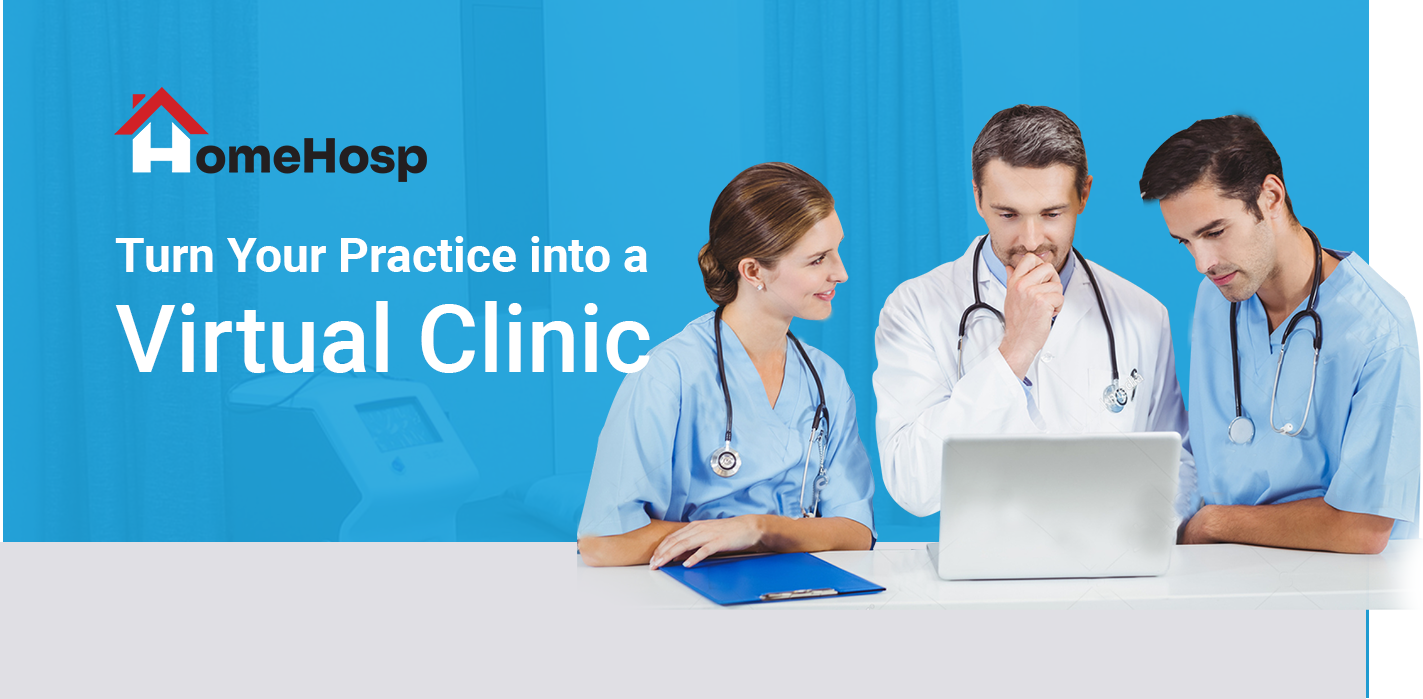
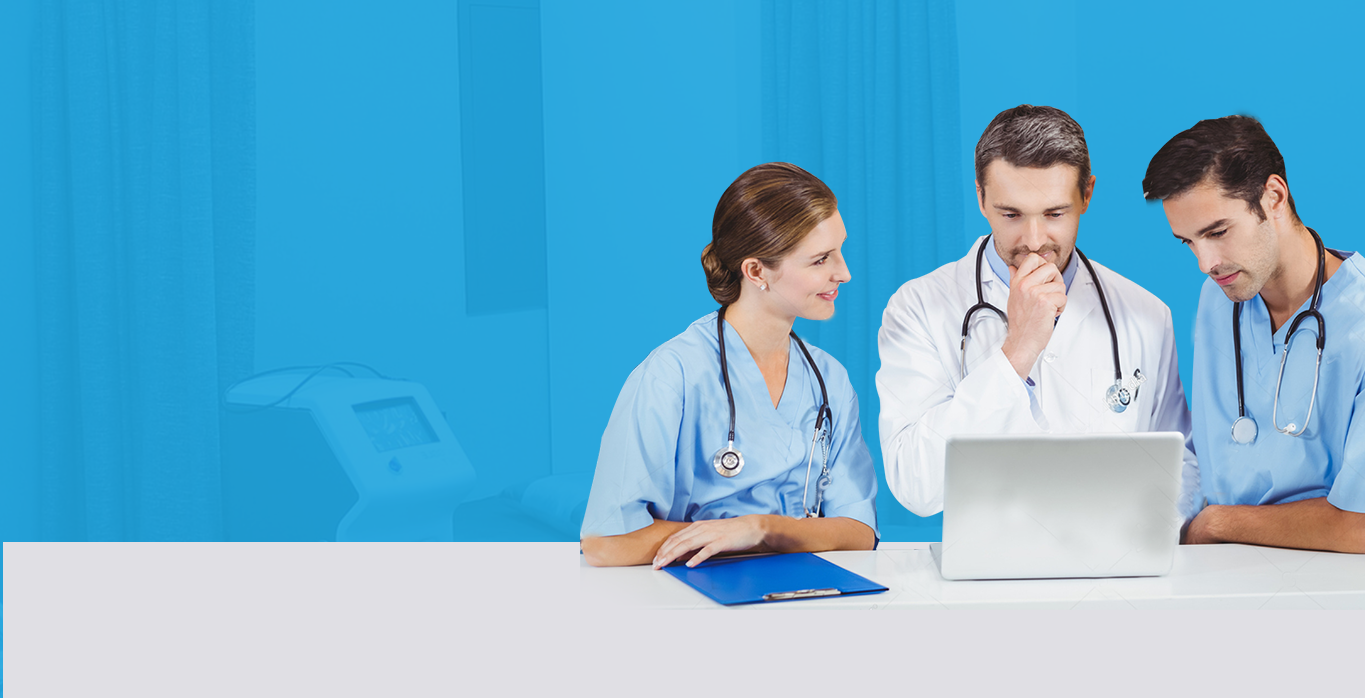
Completed landing page

diff --git a/src/app/views/provider-landing/pro-landing/pro-landing.component.scss b/src/app/views/provider-landing/pro-landing/pro-landing.component.scss
@@ -28,6 +28,20 @@
         background-repeat: no-repeat;
         background-position: center;
         height: 94vh; 
+        .provider--head{
+            img{
+                margin-bottom: 54px;
+            }
+            h1{
+                font-size: 48px;
+                width: 60%;
+                color: #fff;
+                span{
+                    font-size: 94px;
+                    font-weight: 500;
+                }
+            }
+        }
     }
     .section--two{
         .providers--box{
@@ -120,3 +134,197 @@
     }
     
 }
+
+@media only screen and (max-width: 599px) {
+    .provider--landing--wrapper .section--one{
+        height: 25vh;
+    }
+    .provider--landing--wrapper .section--one .provider--head img{
+        margin-bottom: 10px;
+        width: 40%;
+    }
+    .provider--landing--wrapper .section--one .provider--head h1{
+        font-size: 18px;
+        span {
+            font-size: 30px; 
+        }
+    } 
+    .provider--landing--wrapper .main--heading{
+        font-size: 22px;
+    }
+    .provider--landing--wrapper .pb--100 {
+        padding-bottom: 25px;
+    }
+    .provider--landing--wrapper .pt--100 {
+        padding-top: 25px;
+    }
+    .provider--landing--wrapper .mb--100 {
+        margin-bottom: 25px;
+    }
+    .provider--landing--wrapper .mt--100 {
+        margin-top: 25px;
+    }
+    .provider--landing--wrapper .section--two .providers--box .info--sec h2 {
+        font-size: 20px; 
+        margin-bottom: 10px; 
+        margin-top: 15px;
+    }
+    .provider--landing--wrapper .section--two .providers--box .info--sec p {
+        font-size: 13px; 
+    }
+    .provider--landing--wrapper .section--two .providers--box .info--sec{
+        padding: 18px;
+        text-align: center;
+        margin: 0 auto;
+        width: 90%;
+        border-bottom-left-radius: 0;
+        border-bottom-right-radius: 0;
+        margin-top: -100px;
+    }
+    .provider--landing--wrapper .section--two .providers--box .img--sec {
+        width: 100%;
+        height: 250px;
+        order: -1;
+    }
+    .provider--landing--wrapper .section--two .providers--box .img--sec .play--btn{
+        width: 40px;
+        z-index: 999;
+        margin-bottom: 80px;
+    }
+    .provider--landing--wrapper .section--three .img--data h1 {
+        font-size: 20px;
+        margin-bottom: 7px;
+        text-align: center;
+    }
+    .provider--landing--wrapper .section--three .img--data p {
+        font-size: 15px;
+        text-align: center;
+    }
+    .provider--landing--wrapper .section--three{
+        text-align: center;
+    }
+    .provider--landing--wrapper .section--three img{
+        width: 50%;
+        margin-top: 15px;
+    }
+    .provider--landing--wrapper .section--four .meet--doctors .profile--pic {
+        width: 100px;
+        height: 100px;
+    }
+    .provider--landing--wrapper .section--four .meet--doctors .doc--name {
+        font-size: 17px; 
+        margin: 15px 0;
+    }
+    .provider--landing--wrapper .section--four .meet--doctors address h5 {
+        font-size: 12px;
+    }
+    .provider--landing--wrapper .section--four .meet--doctors address p {
+        font-size: 13px;
+    }
+    .provider--landing--wrapper .section--four .meet--doctors .divider {  
+        margin: 15px auto 13px auto;
+    }
+    .provider--landing--wrapper .section--four .meet--doctors .about--doc { 
+        font-size: 14px;
+    }
+}
+@media only screen and (min-width: 600px) and (max-width: 979px){
+    .provider--landing--wrapper .section--one{
+        height: 38vh;
+    }
+    .provider--landing--wrapper .section--one .provider--head h1{
+        font-size: 25px;
+        span {
+            font-size: 50px; 
+        }
+    } 
+    .provider--landing--wrapper .main--heading{
+        font-size: 30px;
+    }
+    .provider--landing--wrapper .pb--100 {
+        padding-bottom: 50px;
+    }
+    .provider--landing--wrapper .pt--100 {
+        padding-top: 50px;
+    }
+    .provider--landing--wrapper .mb--100 {
+        margin-bottom: 50px;
+    }
+    .provider--landing--wrapper .mt--100 {
+        margin-top: 50px;
+    }
+    .provider--landing--wrapper .section--two .providers--box .info--sec h2 {
+        font-size: 25px; 
+        margin-bottom: 15px; 
+    }
+    .provider--landing--wrapper .section--two .providers--box .info--sec p {
+        font-size: 14px; 
+    }
+    .provider--landing--wrapper .section--two .providers--box .info--sec{
+        padding: 30px;
+    }
+    .provider--landing--wrapper .section--two .providers--box .img--sec {
+        height: 337px;
+    }
+    .provider--landing--wrapper .section--three .img--data h1 {
+        font-size: 27px; 
+        margin-bottom: 10px;
+    }
+    .provider--landing--wrapper .section--three .img--data p {
+        font-size: 19px; 
+    }
+    .provider--landing--wrapper .section--four .meet--doctors .profile--pic {
+        width: 150px;
+        height: 150px;
+    }
+    .provider--landing--wrapper .section--four .meet--doctors .doc--name {
+        font-size: 18px; 
+        margin: 20px 0 15px 0;
+    }
+    .provider--landing--wrapper .section--four .meet--doctors address h5 {
+        font-size: 12px;
+    }
+    .provider--landing--wrapper .section--four .meet--doctors address p {
+        font-size: 13px;
+    }
+    .provider--landing--wrapper .section--four .meet--doctors .divider {  
+        margin: 15px auto 13px auto;
+    }
+    .provider--landing--wrapper .section--four .meet--doctors .about--doc { 
+        font-size: 14px;
+    }
+}
+
+@media screen and (orientation:landscape) and (max-width: 850px){
+    .provider--landing--wrapper .section--one {
+        height: 85vh !important;
+    }
+    .provider--landing--wrapper .section--one .provider--head img {
+        margin-bottom: 15px;
+        width: 21%;
+    }
+    .provider--landing--wrapper .section--one .provider--head h1 {
+        font-size: 25px;
+        span{
+            font-size: 50px;
+        }
+    }
+}
+     
+@media only screen 
+  and (min-device-width: 768px) 
+  and (max-device-width: 1024px) 
+  and (orientation: landscape) 
+  and (-webkit-min-device-pixel-ratio: 1) {
+    .provider--landing--wrapper .section--one{
+        height: 60vh;
+    }
+    .provider--landing--wrapper .section--one .provider--head h1 {
+        font-size: 38px; 
+        span{
+            font-size: 70px;
+        }
+    }
+
+}
+@media only screen and (min-width: 980px) and (max-width: 1279px){}

diff --git a/src/app/views/provider-landing/pro-landing/pro-landing.component.html b/src/app/views/provider-landing/pro-landing/pro-landing.component.html
@@ -3,6 +3,14 @@
 
 
         <section fxLayout="row" class="section--one" style="background-image: url('assets/images/ark/pro-banner.png')">
+            <div class="container" fxLayout="column" fxLayoutAlign="center center">
+                <div class="provider--head">
+                    <img src="assets/images/ark/bannerlogo.png" alt="">
+                    <h1>Turn Your Practice into a 
+                        <span> Virtual Clinic</span>
+                    </h1>                     
+                </div>
+            </div>
         </section>
 
         <section class="section--two bg--fff">
@@ -14,7 +22,7 @@
                         </h2>
                     </div>
                 </div>
-                <div fxLayout="row" fxFlex="100" class="providers--box mb--100" fxLayoutAlign="space-between center">
+                <div fxLayout="row" fxLayout.xs="row wrap" fxFlex="100" class="providers--box mb--100" fxLayoutAlign="space-between center">
                     <div class="info--sec">
                         <h2>Get New Patients</h2>
                         <p class="mb-0">Dummy is simply dummy text of the printing and typesetting industry. Lorem Ipsum
@@ -25,9 +33,9 @@
                             been the industry's lorem.
                             dummy</p>
                     </div>
-                    <div class="img--sec" fxLayoutAlign="center center"
+                    <div class="img--sec" fxLayoutAlign.xs="center end" fxLayoutAlign="center center"
                         style="background-image: url('assets/images/ark/video-bg.png')">
-                        <!-- play.png -->
+                        <img src="../../../../assets/images/ark/play.png" alt="" class="cursor-pointer play--btn">
                     </div>
                 </div>
             </div>
@@ -44,7 +52,7 @@
                             the industry's </p>
                     </div>
                     <div fxFlex.xs="100" fxFlex.sm="41" fxFlex.md="50" fxFlex.lg="50" fxFlex.xl="50" class="order--1">
-                        <img src="assets/images/ark/boost-revenue.png" alt="img">
+                        <img src="assets/images/ark/private-securenew.png" alt="img">
                     </div>
                 </div>
             </div>
@@ -56,7 +64,7 @@
                     <div fxFlex.xs="100" fxFlex.sm="41" fxFlex.md="50" fxFlex.lg="50" fxFlex.xl="50" class="order--1">
                         <img src="assets/images/ark/fill-openings.png" alt="img">
                     </div>
-                    <div fxFlex.xs="100" fxFlex.sm="50" fxFlex.md="50" fxFlex.lg="50" fxFlex.xl="50">
+                    <div fxFlex.xs="100" fxFlex.sm="50" fxFlex.md="50" fxFlex.lg="50" fxFlex.xl="50" class="order-1">
                         <h1> <strong> Fill Last Minute Openings </strong></h1>
                         <p>Lorem Ipsum is simply dummy text of the printing and typesetting industry. Lorem Ipsum has
                             been.
@@ -77,7 +85,7 @@
                             the industry's </p>
                     </div>
                     <div fxFlex.xs="100" fxFlex.sm="41" fxFlex.md="50" fxFlex.lg="50" fxFlex.xl="50" class=" ">
-                        <img src="assets/images/ark/boost-revenue.png" alt="img">
+                        <img src="assets/images/ark/strengthnew.png" alt="img">
                     </div>
                 </div>
             </div>
@@ -89,7 +97,7 @@
                     <div fxFlex.xs="100" fxFlex.sm="41" fxFlex.md="50" fxFlex.lg="50" fxFlex.xl="50" class=" ">
                         <img src="assets/images/ark/boost-revenue.png" alt="img">
                     </div>
-                    <div fxFlex.xs="100" fxFlex.sm="50" fxFlex.md="50" fxFlex.lg="50" fxFlex.xl="50">
+                    <div fxFlex.xs="100" fxFlex.sm="50" fxFlex.md="50" fxFlex.lg="50" fxFlex.xl="50" class="order-1">
                         <h1> <strong>Boost Practice Revenue </strong></h1>
                         <p> Lorem Ipsum is simply dummy text of the printing and typesetting industry. Lorem Ipsum has
                             been.
@@ -110,7 +118,7 @@
                     </div>
                 </div>
                 <div fxLayout="row wrap" fxFlex="100" class="meet--doctors" fxLayoutAlign="space-between start">
-                    <div class="text-center" fxFlex.xs="100" fxFlex.sm="30" fxFlex.md="30" fxFlex.lg="23" fxFlex.xl="23"
+                    <div class="text-center" fxFlex.xs="100" fxFlex.sm="23" fxFlex.md="23" fxFlex.lg="23" fxFlex.xl="23"
                         *ngFor="let i of docProfile">
 
                         <div class="profile--pic">

diff --git a/src/styles.scss b/src/styles.scss
@@ -34,12 +34,15 @@
 .mb-5{ margin-bottom: 5px !important;}
 .mb-10{ margin-bottom: 10px !important;}
 .mr-10{ margin-right: 10px !important;}
+.cursor-pointer { cursor: pointer; }
 
 // Fonts
 .fnt--12{font-size: 12px !important;}
 
 // color
 .clr--98a0ab{ color: #98a0ab !important;}
+
+
 
 // auth header
 .auth--header{
@@ -101,4 +104,7 @@
             display: none;
         }
     } 
+    .order-1{
+        order: -1;
+    }
 }
